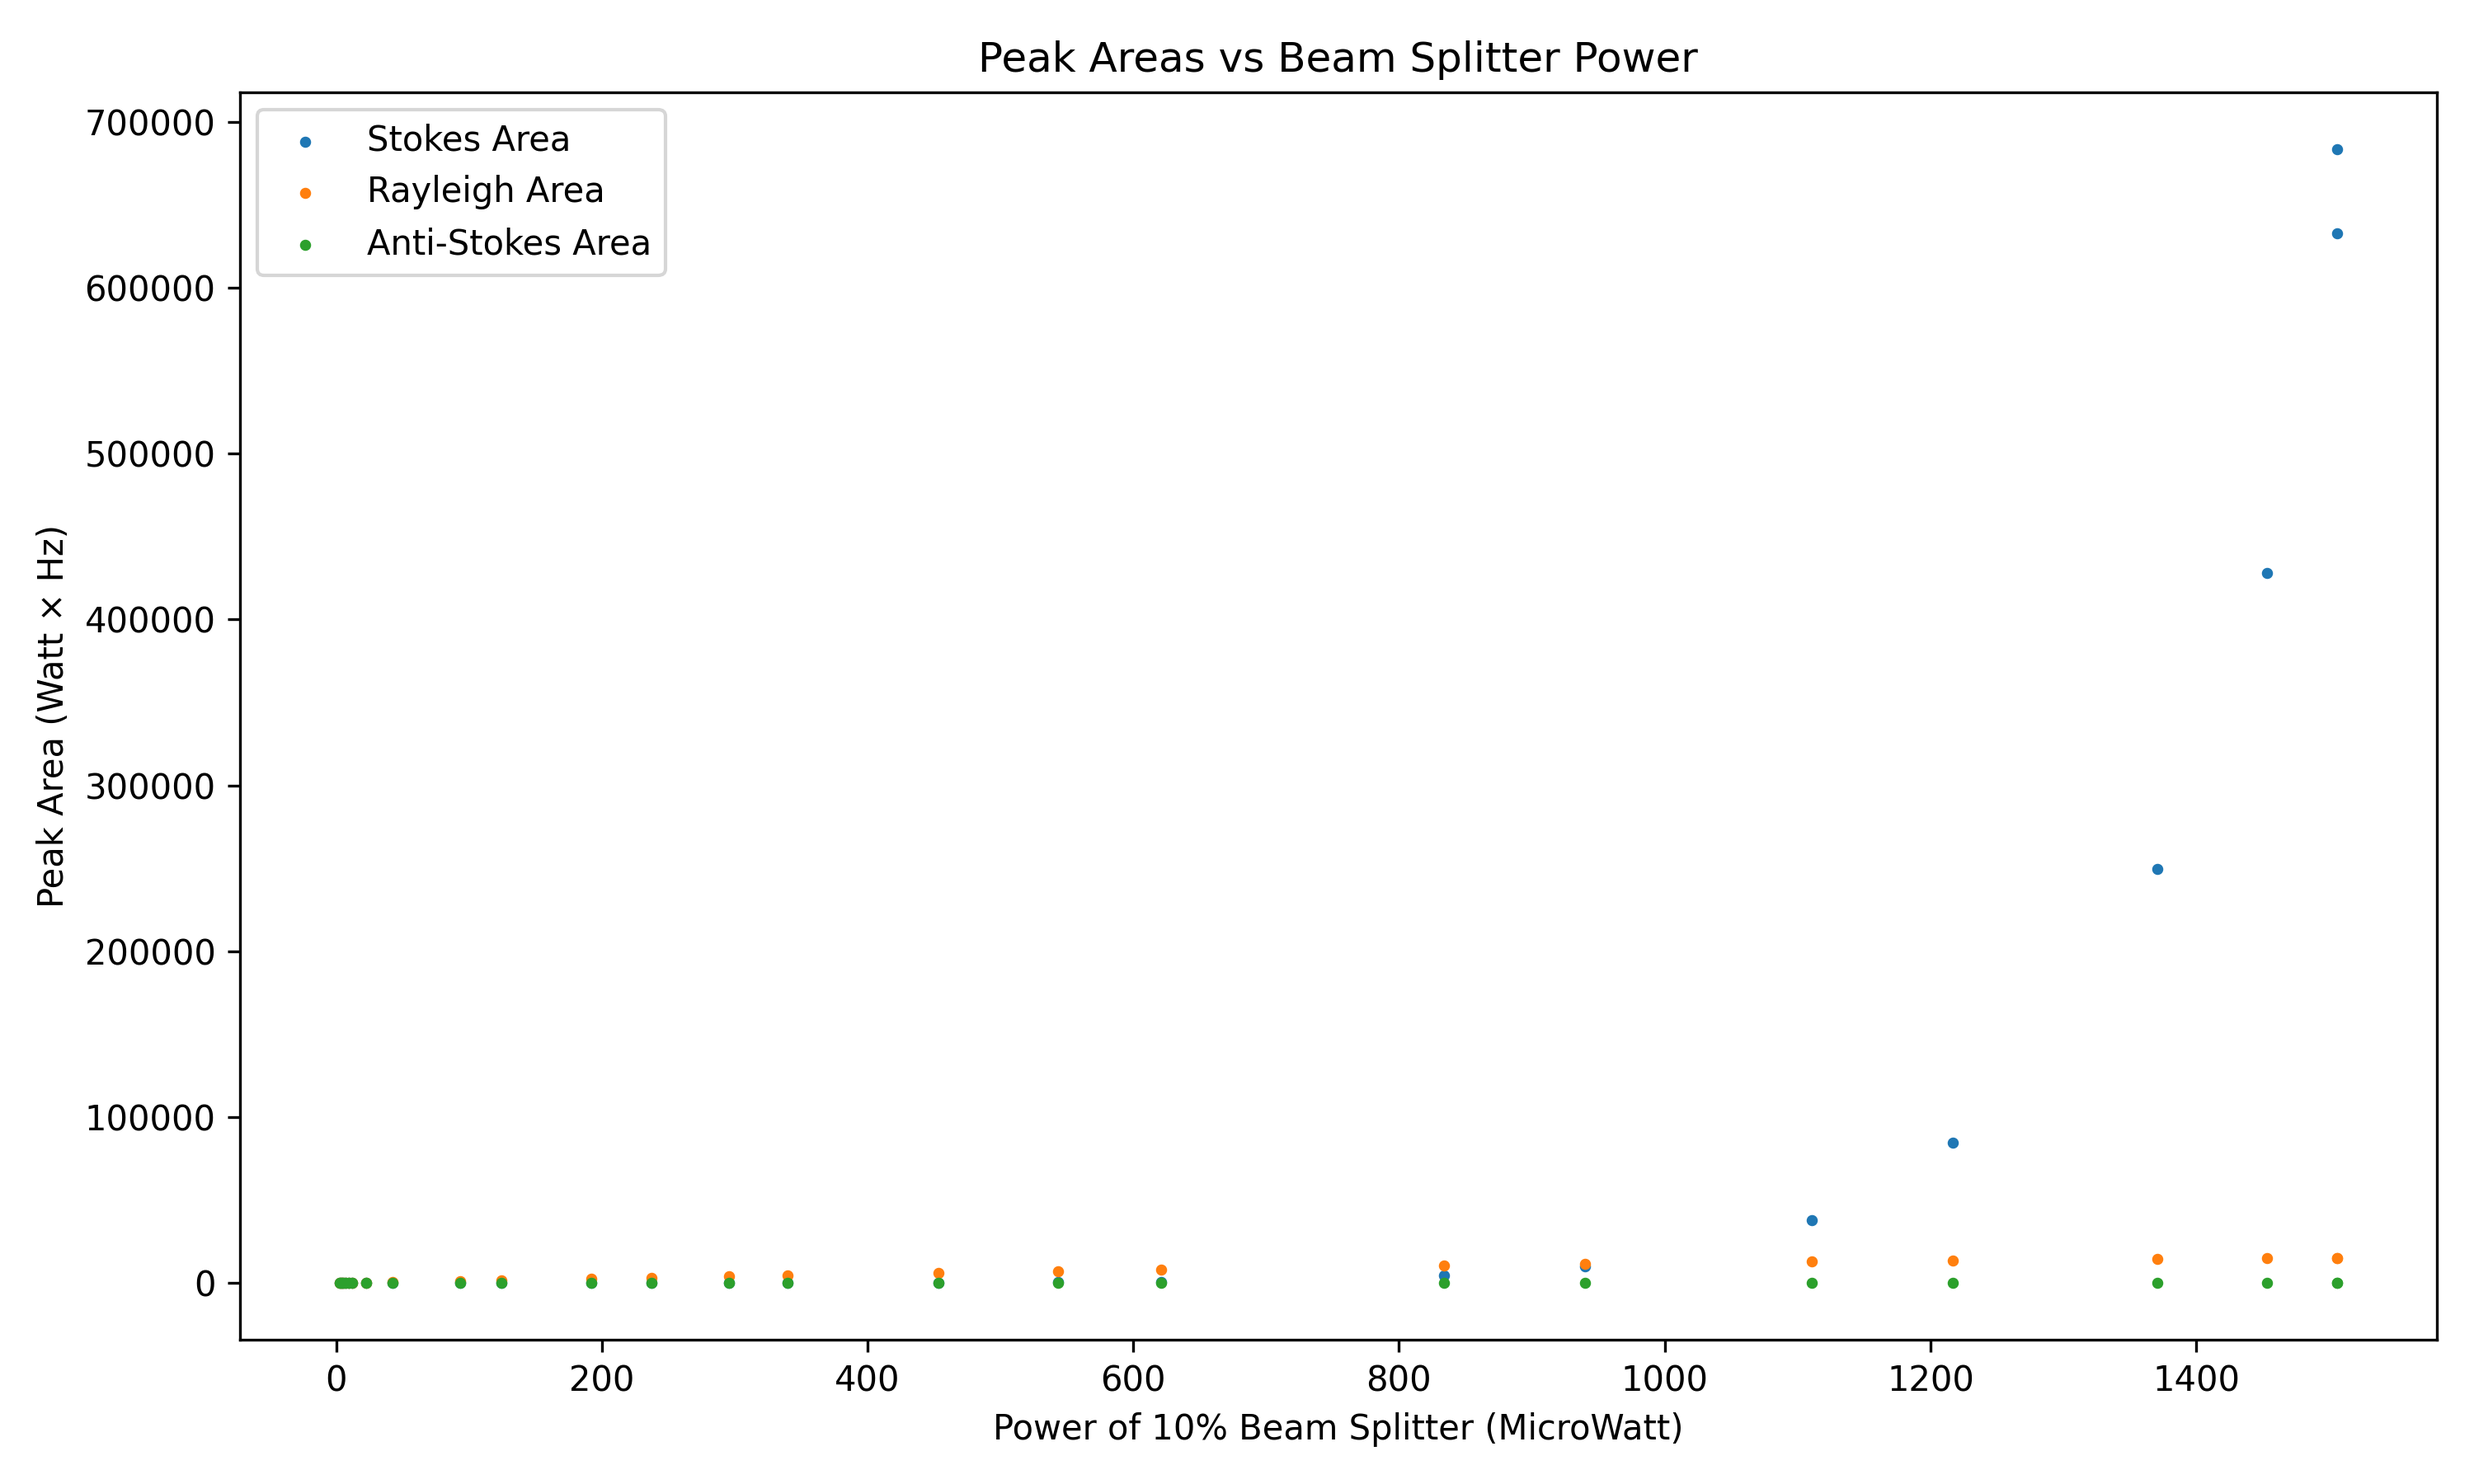
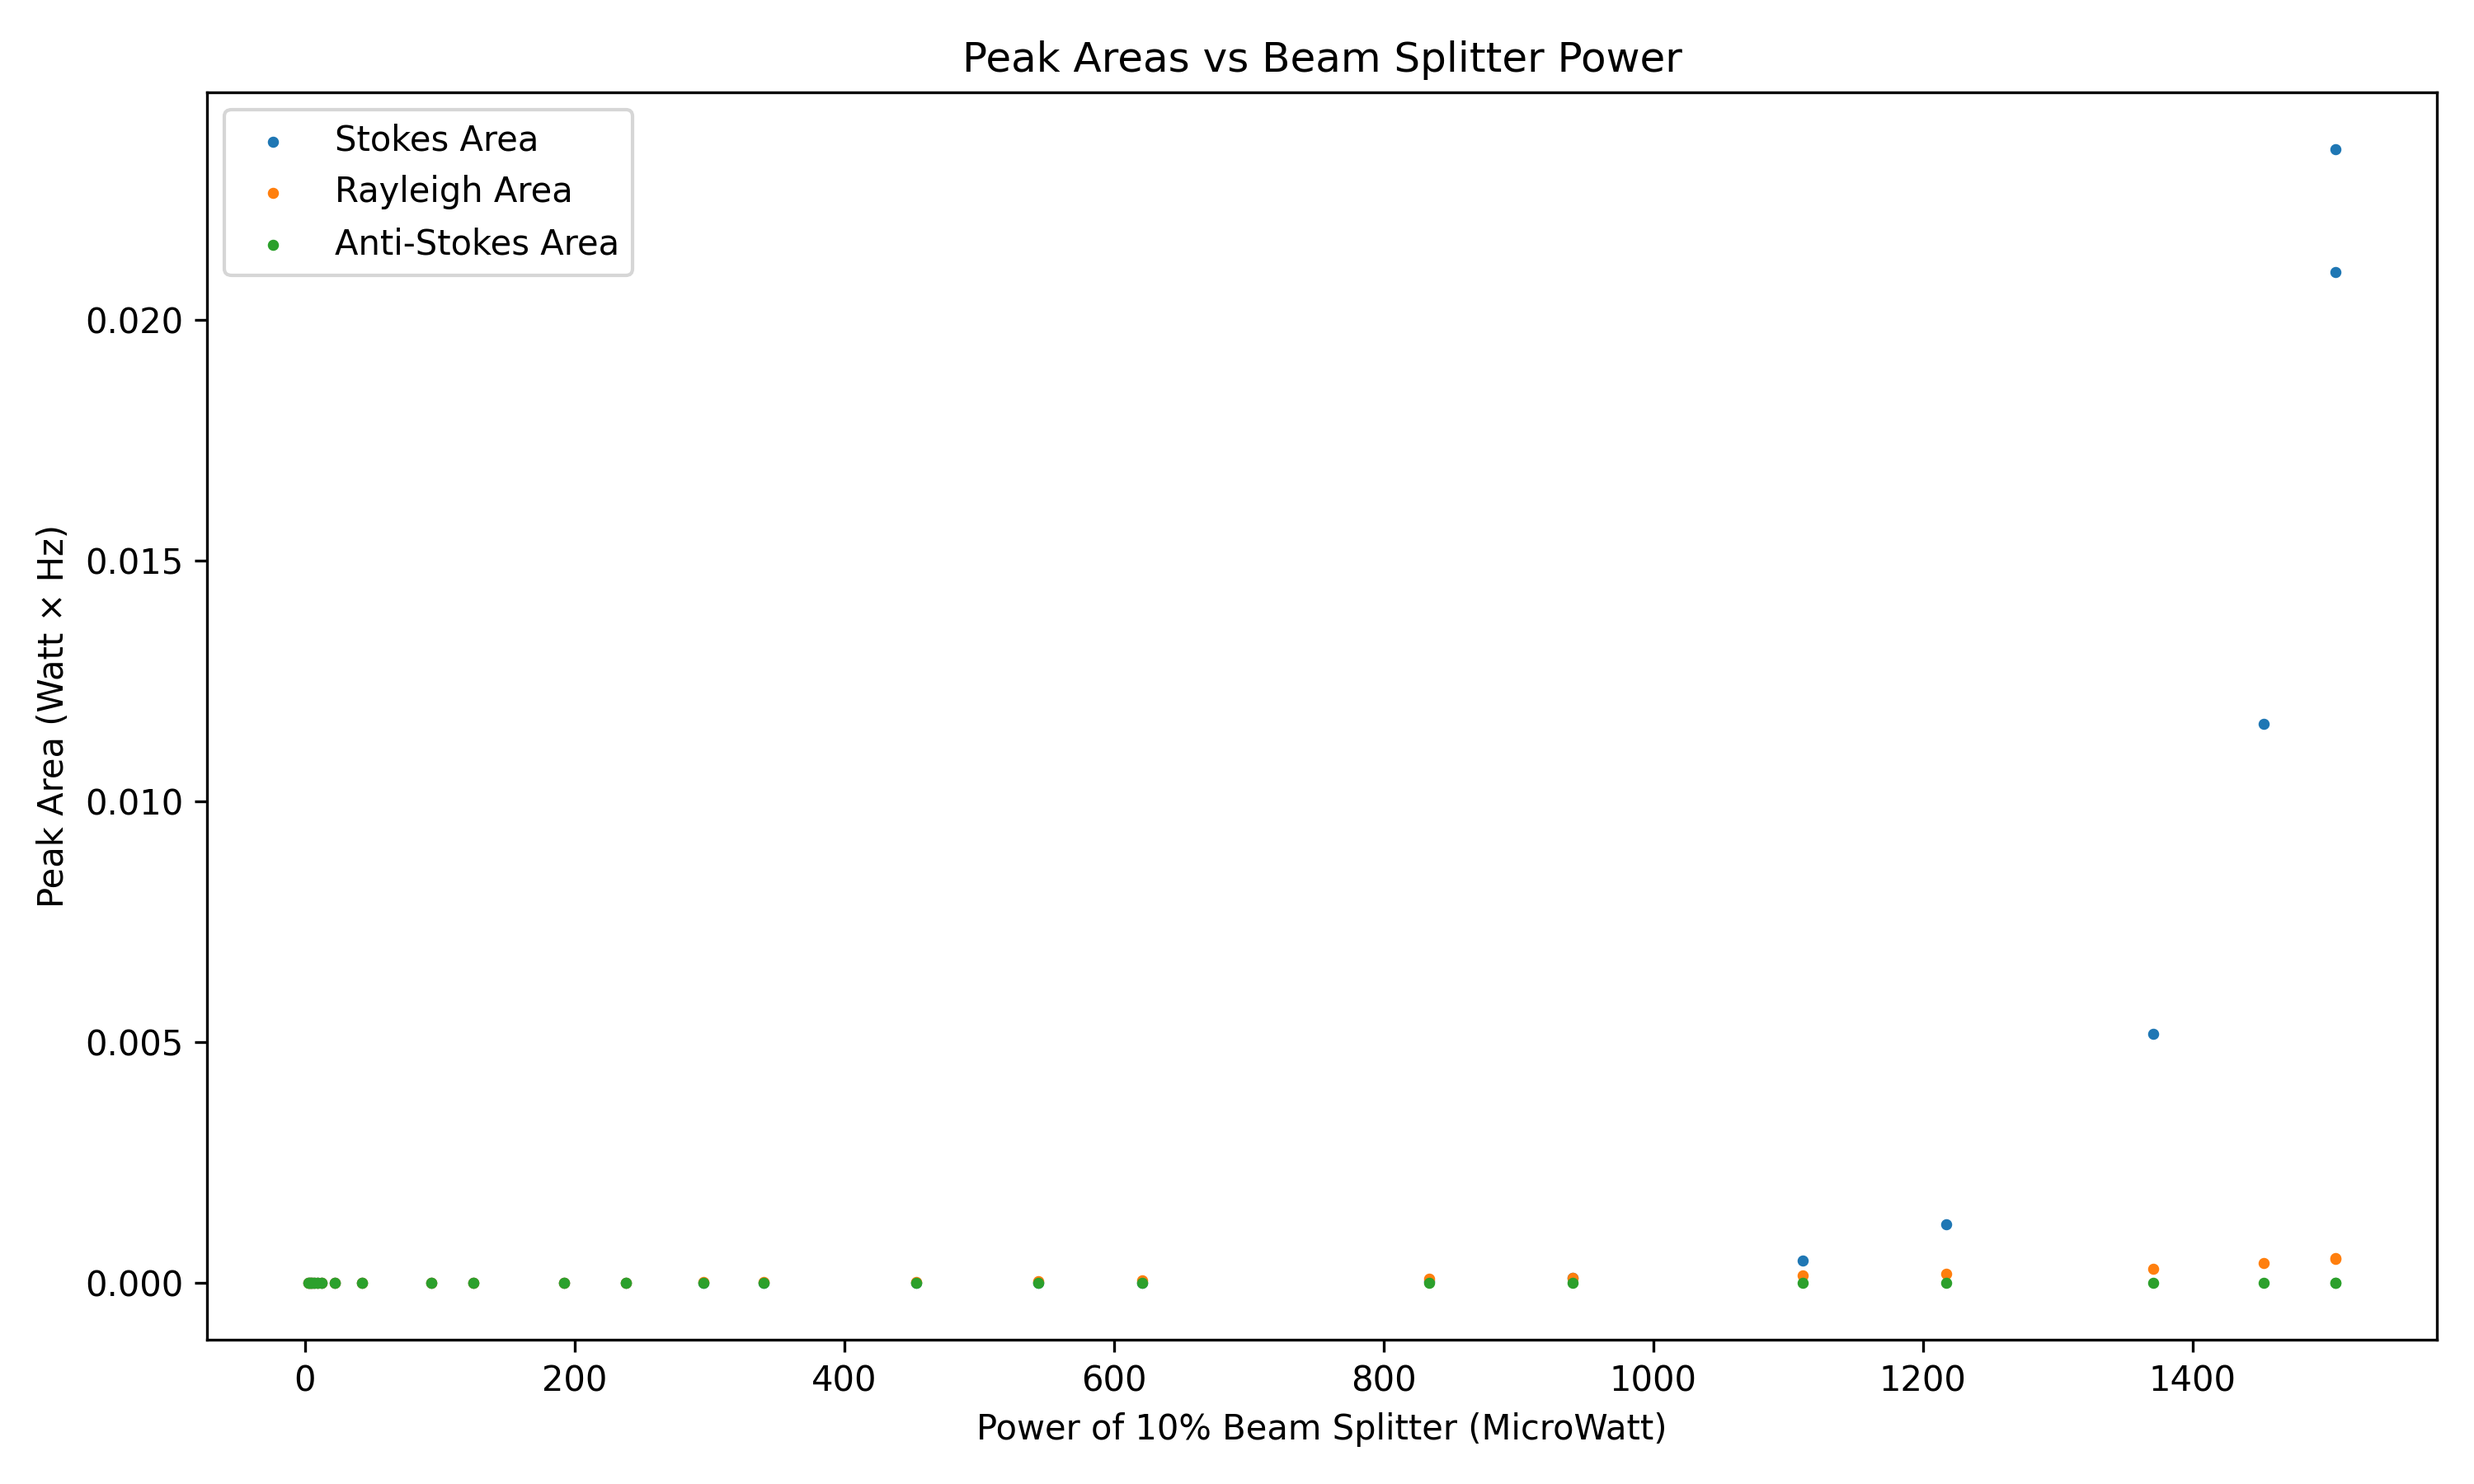
Fixing plots.

diff --git a/plotPeaks.py b/plotPeaks.py
@@ -60,9 +60,9 @@ def analyseSession_1():
 
 	# Plot 4: x = power, y = area (axes swapped)
 	plt.figure(figsize=(10,6))
-	plt.scatter(power, df['peak1_area_W_Hz'], label='Stokes Area', s=5)
-	plt.scatter(power, df['peak2_area_W_Hz'], label='Rayleigh Area', s=5)
-	plt.scatter(power, df['peak3_area_W_Hz'], label='Anti-Stokes Area', s=5)
+	plt.scatter(power, dbm_to_watts(watts_to_dbm(df['peak1_area_W_Hz']) + df['baseline']), label='Stokes Area', s=5)
+	plt.scatter(power, dbm_to_watts(watts_to_dbm(df['peak2_area_W_Hz']) + df['baseline']), label='Rayleigh Area', s=5)
+	plt.scatter(power, dbm_to_watts(watts_to_dbm(df['peak3_area_W_Hz']) + df['baseline']), label='Anti-Stokes Area', s=5)
 	plt.xlabel('Power of 10% Beam Splitter (MicroWatt)')
 	plt.ylabel('Peak Area (Watt × Hz)')
 	plt.title('Peak Areas vs Beam Splitter Power')
@@ -83,13 +83,6 @@ def analyseSession_1():
 	plt.tight_layout()
 	plt.savefig(os.path.join(images_folder, 'areadBm_vs_power.png'), dpi=300)
 	# plt.show()  # Commented for fast batch processing
-
-
-
-
-
-
-
 
 	# Plot 6: x = power, y = area (axes swapped)
 	plt.figure(figsize=(10,6))
